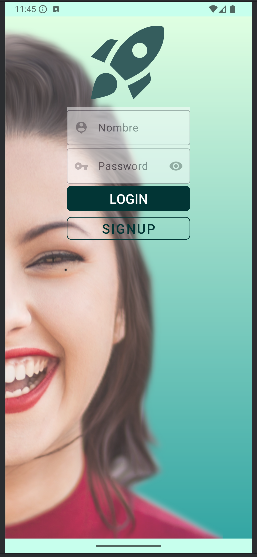
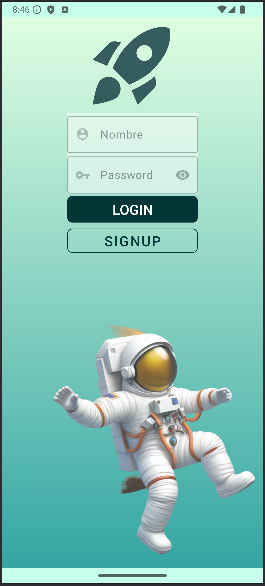
Cambio imagenes desde gradle en vez de desde src

diff --git a/app/src/main/java/com/dhernandez/nicestart/Login.java b/app/src/main/java/com/dhernandez/nicestart/Login.java
@@ -1,22 +1,44 @@
 package com.dhernandez.nicestart;
 
 import android.content.Intent;
+import android.graphics.drawable.ColorDrawable;
 import android.os.Bundle;
 import android.view.View;
+import android.widget.ImageView;
 
 import androidx.activity.EdgeToEdge;
 import androidx.appcompat.app.AppCompatActivity;
 import androidx.core.graphics.Insets;
 import androidx.core.view.ViewCompat;
 import androidx.core.view.WindowInsetsCompat;
+import com.bumptech.glide.Glide;
+import com.bumptech.glide.load.resource.drawable.DrawableTransitionOptions;
 
-public class login extends AppCompatActivity {
+
+
+
+
+public class Login extends AppCompatActivity {
 
     @Override
     protected void onCreate(Bundle savedInstanceState) {
+
         super.onCreate(savedInstanceState);
         EdgeToEdge.enable(this);
         setContentView(R.layout.activity_login);
+
+        ImageView mGirl = findViewById(R.id.girl);
+        Glide.with(this)
+                // .load(R.drawable.girl)
+                .load("https://attic.sh/dh8y986csspynffxk94ermb3598q")
+                .transition(DrawableTransitionOptions.withCrossFade(1500))
+                //.centerCrop()
+                //.circleCrop()
+
+                //.placeholder(new ColorDrawable(this.getResources().getColor(R.color.Teal3)))
+                .into(mGirl);
+
+
         ViewCompat.setOnApplyWindowInsetsListener(findViewById(R.id.main), (v, insets) -> {
             Insets systemBars = insets.getInsets(WindowInsetsCompat.Type.systemBars());
             v.setPadding(systemBars.left, systemBars.top, systemBars.right, systemBars.bottom);
@@ -25,12 +47,12 @@ public class login extends AppCompatActivity {
     }
 
     public void openSignup(View v) {
-        Intent intent = new Intent(login.this, Signup.class);
+        Intent intent = new Intent(Login.this, Signup.class);
         startActivity(intent);
 
     }
     public void openMain(View v){
-        Intent intent = new Intent(login.this, MainActivity.class);
+        Intent intent = new Intent(Login.this, MainActivity.class);
         startActivity(intent);
     }
 }

diff --git a/app/src/main/java/com/dhernandez/nicestart/Signup.java b/app/src/main/java/com/dhernandez/nicestart/Signup.java
@@ -3,12 +3,16 @@ package com.dhernandez.nicestart;
 import android.content.Intent;
 import android.os.Bundle;
 import android.view.View;
+import android.widget.ImageView;
 
 import androidx.activity.EdgeToEdge;
 import androidx.appcompat.app.AppCompatActivity;
 import androidx.core.graphics.Insets;
 import androidx.core.view.ViewCompat;
 import androidx.core.view.WindowInsetsCompat;
+
+import com.bumptech.glide.Glide;
+import com.bumptech.glide.load.resource.drawable.DrawableTransitionOptions;
 
 public class Signup extends AppCompatActivity {
 
@@ -17,6 +21,19 @@ public class Signup extends AppCompatActivity {
         super.onCreate(savedInstanceState);
         EdgeToEdge.enable(this);
         setContentView(R.layout.activity_signup);
+
+        ImageView mGirl = findViewById(R.id.girl);
+        Glide.with(this)
+                // .load(R.drawable.girl)
+                .load("https://attic.sh/dh8y986csspynffxk94ermb3598q")
+                .transition(DrawableTransitionOptions.withCrossFade(1500))
+                //.centerCrop()
+                //.circleCrop()
+
+                //.placeholder(new ColorDrawable(this.getResources().getColor(R.color.Teal3)))
+                .into(mGirl);
+
+
         ViewCompat.setOnApplyWindowInsetsListener(findViewById(R.id.main), (v, insets) -> {
             Insets systemBars = insets.getInsets(WindowInsetsCompat.Type.systemBars());
             v.setPadding(systemBars.left, systemBars.top, systemBars.right, systemBars.bottom);
@@ -25,7 +42,7 @@ public class Signup extends AppCompatActivity {
     }
 
     public void openLogin(View v) {
-        Intent intent = new Intent(Signup.this, login.class);
+        Intent intent = new Intent(Signup.this, Login.class);
         startActivity(intent);
 
     }

diff --git a/README.md b/README.md
@@ -1,10 +1,40 @@
-##Nice Start es la primera aplicación creada en Desarrollo de Interfaces
-De momento ya están realizadas las versiones Portrait y Landscape de la pantalla **login** y la pantalla **signup**
+# Nice Start
+
+### Primera aplicación creada en Desarrollo de Interfaces
+
+
+De momento ya están realizadas las versiones Portrait y Landscape de la pantalla **login** y la pantalla **signup**.
+
 Estas son algunas capturas de la aplicación:
+
+
 ![login activity](img/cap1.png)
 ![login activity](img/cap2.PNG)
 ![login activity](img/cap3.PNG)
 ![login activity](img/cap4.PNG)
+
+Aquí un extracto del código que hace que funcionen los botones:
+
+
+```
+public void openSignup(View v) {
+
+        Intent intent = new Intent(login.this, Signup.class);
+        
+        startActivity(intent);
+        
+    }
+```
+
+```
+public void openMain(View v){
+    
+        Intent intent = new Intent(login.this, MainActivity.class);
+        
+        startActivity(intent);
+        
+    } 
+```
 
 Pronto más cambios!
 
